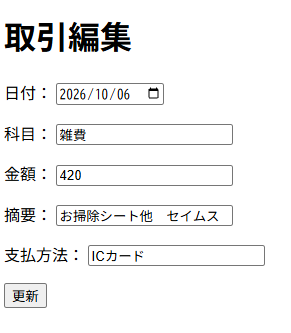
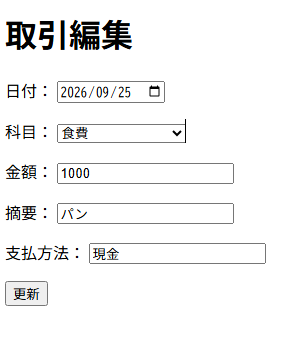
READMEを科目管理に合わせて更新（ER図・テーブル作成SQL・構成・画面）

diff --git a/README.md b/README.md
@@ -7,6 +7,7 @@
 MVC・DAO・JDBC・CRUDの理解を深めることを目的に制作しました。
 経理経験を活かして、記録を予算管理や振り返りに用いたいと考えました。
 
+
 ## 主な機能
 - 取引の一覧表示
 - 取引の登録
@@ -15,11 +16,14 @@ MVC・DAO・JDBC・CRUDの理解を深めることを目的に制作しました
 - 取引の削除
 - 削除前の確認ダイアログ
 - 入力チェック(必須・文字数・金額の範囲。エラー時は入力値を残す)
+- 科目をプルダウンから選べる
+
 
 ## 開発中・今後の予定
-- 科目管理
+- 科目別の集計
 - 予算管理
 - 予算超過アラート
+
 
 ## 画面
 ### 一覧画面
@@ -43,6 +47,7 @@ OKを押すと削除できます。確認画面をはさむことで、間違っ
 
 ![削除前の確認](docs/images/delete-confirm.png)
 
+
 ## 使用技術
 - Java
 - Servlet / JSP
@@ -52,11 +57,18 @@ OKを押すと削除できます。確認画面をはさむことで、間違っ
 - Apache Tomcat 11
 - Eclipse
 
+
 ## 構成
-- Model：Transaction→取引のID、日付、科目、金額、摘要、支払方法を保持します。
+- Model
+	- Transaction：取引のID、日付、科目ID、科目名、金額、摘要、支払方法を保持します。
+	- Category：科目ID、科目名を保持します。
 - View：JSP→一覧・登録・詳細・編集画面を担当します。
 - Controller：Servlet→リクエストを受け取り、DAOの呼び出しや画面遷移を担当します。
-- DAO：TransactionDAO→JDBCを利用してH2 DatabaseへのSELECT / INSERT / UPDATE / DELETEを担当します。
+- DAO
+	- TransactionDAO：JDBCを利用してH2 DatabaseへのSELECT / INSERT / UPDATE / DELETEを担当します。
+	- CategoryDAO：JDBCを利用してH2 Databaseへの科目の一覧の取得を担当します。
+- Validator：TransactionValidator→登録・編集の入力チェックを担当します。
+
 
 ## 処理の流れ(登録 → 一覧表示)
 ```mermaid
@@ -89,11 +101,11 @@ ListJSP-->>U: 一覧画面を表示する
 ## テーブル設計(ER図)
 ```mermaid
 erDiagram
+    CATEGORIES ||--o{ TRANSACTIONS : "分類する"
     CATEGORIES {
         INTEGER id PK "自動採番"
         VARCHAR name "科目名"
     }
-
     TRANSACTIONS {
         INTEGER id PK "自動採番"
         DATE transaction_date "日付"
@@ -103,7 +115,6 @@ erDiagram
         VARCHAR payment_method "支払方法"
     }
 
-    CATEGORIES ||--o{ TRANSACTIONS : "分類する"
 ```
 
 ## 起動方法
@@ -116,13 +127,32 @@ erDiagram
 ### テーブルの作成
 
 ```sql
+-- ① 科目テーブル
+CREATE TABLE categories (
+	id INTEGER GENERATED BY DEFAULT AS IDENTITY PRIMARY KEY,
+	name VARCHAR(10) NOT NULL UNIQUE
+);
+```
+
+```sql
+-- ② 科目の登録
+INSERT INTO categories (name) VALUES ('交通費');
+INSERT INTO categories (name) VALUES ('食費');
+INSERT INTO categories (name) VALUES ('エンタメ');
+INSERT INTO categories (name) VALUES ('本');
+INSERT INTO categories (name) VALUES ('雑費');
+```
+
+```sql
+-- ③ 取引テーブル(categories を先に作る必要がある)
 CREATE TABLE transactions (
 	id INTEGER GENERATED BY DEFAULT AS IDENTITY PRIMARY KEY,
 	transaction_date DATE NOT NULL,
-	category VARCHAR(50) NOT NULL,
+	category_id INTEGER NOT NULL,
 	amount INTEGER NOT NULL,
 	description VARCHAR(255),
-	payment_method VARCHAR(50) NOT NULL
+	payment_method VARCHAR(50) NOT NULL,
+	FOREIGN KEY (category_id) REFERENCES categories(id)
 );
 ```
 
@@ -136,36 +166,38 @@ CREATE TABLE transactions (
 5. EclipseでプロジェクトをTomcat 11に追加して起動する
 6. ブラウザで `http://localhost:8080/HouseholdBudget/TransactionListServlet` を開く
 
+
 ## 学習・工夫したこと
 
 - 主な処理の説明や流れをコメントで残すことで、ただ入力するだけでなく、コードの理解を深められるようにした。
-- MVCを意識してServletとJSPの役割を分けた
-- DAOを使用してデータベース処理を分離した
-- PreparedStatementを使用してSQLを実行した
-- 取引のIDを利用して詳細表示・編集・削除を実装した
-- 入力チェックの処理を`TransactionValidator`にまとめ、登録と編集で共通化した
-- 画面に出す値を`<c:out>`で出力し、XSS対策をした
-- 登録後にリダイレクトし、再読み込みでの二重登録を防いだ（PRGパターン）
+- MVCを意識してServletとJSPの役割を分けた。
+- DAOを使用してデータベース処理を分離した。
+- PreparedStatementを使用してSQLを実行した。
+- 取引のIDを利用して詳細表示・編集・削除を実装した。
+- 入力チェックの処理を`TransactionValidator`にまとめ、登録と編集で共通化した。
+- 画面に出す値を`<c:out>`で出力し、XSS対策をした。
+- 登録後にリダイレクトし、再読み込みでの二重登録を防いだ（PRGパターン）。
+- 科目を別テーブルで管理し、取引には科目IDを保存した。外部キーで、存在しない科目IDが登録されないようにした。
+
 
 ## 開発中に発生した問題と解決
 
 ### GitHubへのプッシュが拒否された
-
 EclipseからGitHubへプッシュした際、「git-receive-pack not permitted」というエラーが出た。GitHubのアクセストークンの使えるリポジトリーが限定されていて、新しく作ったHouseholdBudgetが含まれていなかった。
 エラーメッセージから原因を絞り込み、トークンの設定画面で、対象のリポジトリーにHouseholdBudgetを追加した。トークンは、使う範囲を限定して作ると安全であることも学んだ。
 
 ### コードの記載漏れやタイプミスにより画面が表示されなかった
-
 ${pageContext.request.contextPath}の`contextPath`の`P`が小文字のままだったり、入力間違いが起こってしまった。エラーメッセージから間違いの行を確認して訂正したり、AIにスクリーンショットを送って問題解決にあたった。
 タイプミスに気を配る、エラーメッセージを読み解く大事さを学んだ。
-
 ### JSPで `//` のコメントを使い、画面に文字が表示されてしまった
-
 Javaのコメントの使い方で、JSPのHTMLの部分ではただの文字として扱われる。`<%-- --%>` に修正した。
 
 ### 漢字の多い画面を、Chromeが中国語と判定して自動翻訳してしまった
-
 ページに言語の指定がなかったため、Chromeが文字の見た目から言語を推測していた。日本語と認識されるように、`<html lang="ja"> `を指定した。
+
+### SQL(Javaから見ると""で囲んだただの文字列)やEL(存在しない名前を書くと空として扱われる)の打ち間違いはエラーにならない
+`transaction`(末尾のsが抜けている)と書いても、Eclipseは教えてくれない。慎重にコードを入力するようにしたり、変更したら動作確認するようにしたり、似た処理と見比べるようにした。
+
 
 ## AIの活用
 
